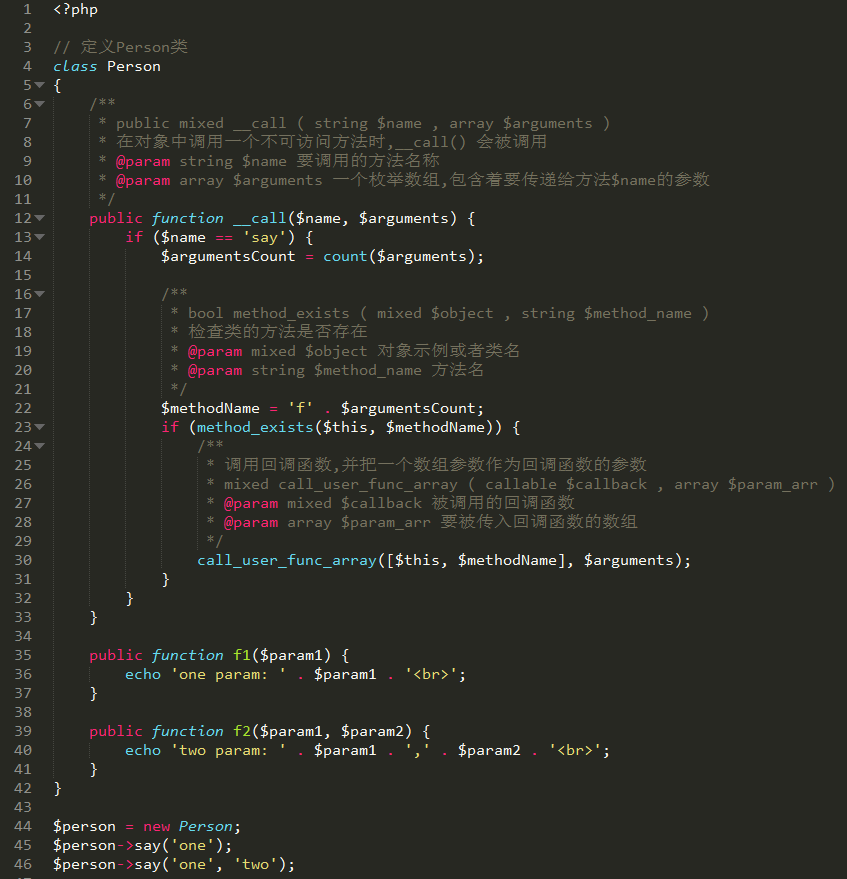
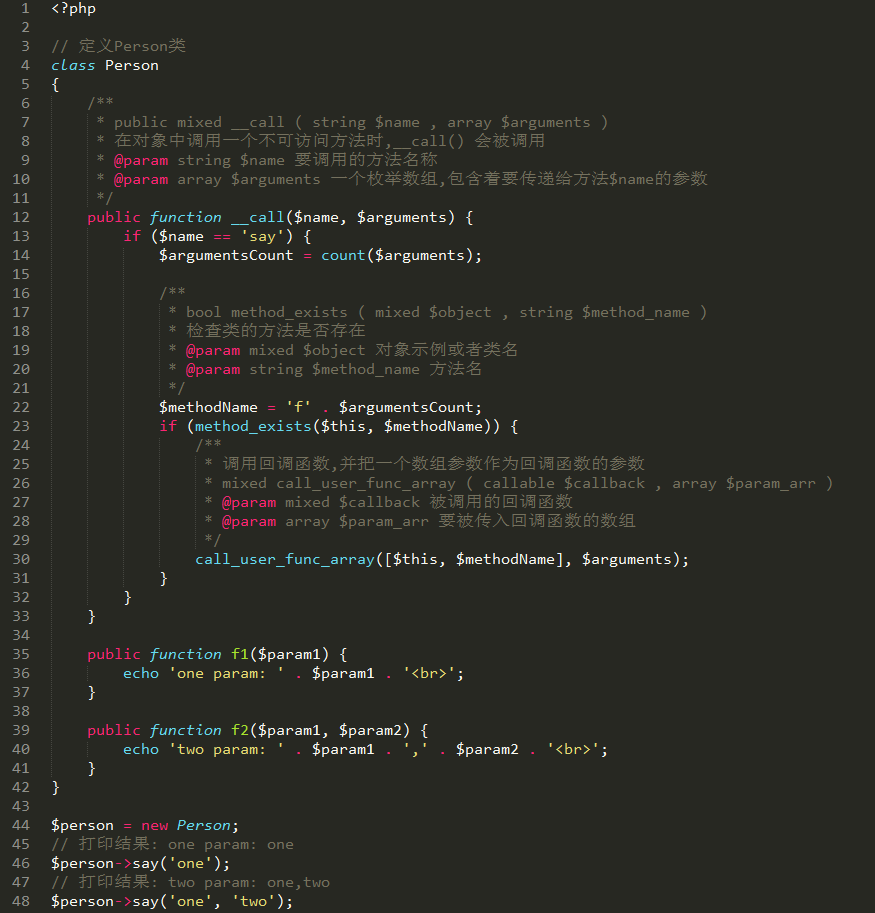
面试

diff --git a/note_013/overload.php b/note_013/overload.php
@@ -42,5 +42,9 @@ class Person
 }
 
 $person = new Person;
+// 打印结果: one param: one
 $person->say('one');
+// 打印结果: two param: one,two
 $person->say('one', 'two');
+
+
